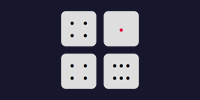
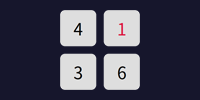
dice change symbols to numbers

diff --git a/dice.html b/dice.html
@@ -153,7 +153,7 @@
                 document.getElementById("die-6")
             ]
 
-            var diceSymbol = [ "·","· ·","···",": :",":·:",":::" ]
+            var diceSymbol = [ "1","2","3","4","5","6" ]
 
             function goDice(count) {
                 diceCount = count;
@@ -174,7 +174,7 @@
             function rollDice() {
                 for (let i = 0; i < diceCount; i++) {
                     var rv = Math.floor(Math.random() * 6);
-                    dice[i].style.fontSize = "80px";
+                    dice[i].style.fontSize = "56px";
                     dice[i].style.color = (rv == 0 ? "crimson" : "black");
                     dice[i].innerText = diceSymbol[rv];
                     
